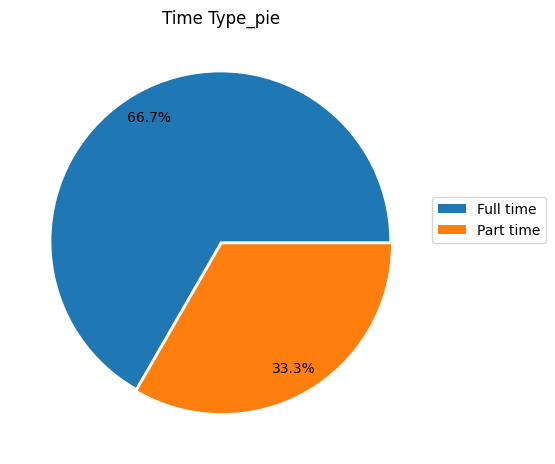
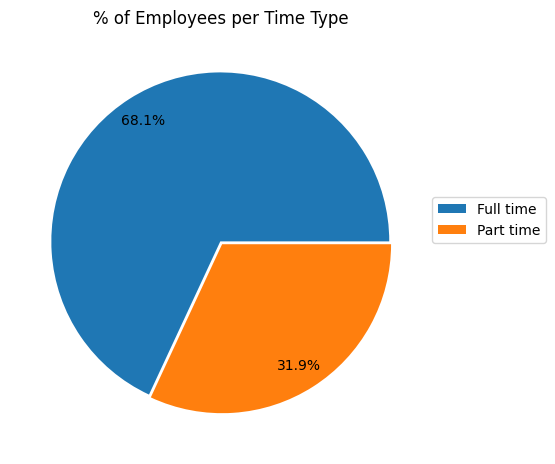
Treemap partial

diff --git a/createGraphs.py b/createGraphs.py
@@ -5,9 +5,6 @@ path = os.path.join(dir,'static', 'datasets', 'current.csv')
 displayedDirPath = os.path.join(dir,'static', 'currentlyDisplayed')
 dfMain = None
 
-def recreateDF():
-    return pd.read_csv(path)
-
 def updateDB():
     return pd.read_csv(path)
 
@@ -51,8 +48,6 @@ def createOther(df, columnName, description = ""):
     
 def singleCategoryGraph(type, columnName, fileName, customTitle, useQuantity):
     df, description = createOther(updateDB(),columnName)
-    dfMain = recreateDF()
-    df, description = createOther(dfMain.copy(),columnName)
     dict = df[columnName].value_counts().to_dict()
     keys = list(dict.keys())
     vals = list(dict.values())
@@ -68,9 +63,19 @@ def singleCategoryGraph(type, columnName, fileName, customTitle, useQuantity):
             plt.subplots_adjust(left=0.0, bottom=0.0, right=1.0)
             genericTitle = "% of Employees per " + columnName
         case "treemap":
+            area = []
+            title = []
             for i, key in enumerate(keys):
-                keys[i] = key + "\n" + "{:1.1f}".format((1-(len(df) - vals[i]) / len(df))*100) + "%"
-            squarify.plot(vals, label=keys)    
+                size = (1-(len(df) - vals[i]) / len(df))*100
+                area.append(int(size))
+                title.append(key)
+                keys[i] = key + "\n" + "{:1.1f}".format(size) + "%"
+            tempDF = pd.DataFrame({"area":area,"keys":keys, "title":title})
+            cmap = tr.get_colormap("Dark2", tempDF["title"])
+            trc = tr.treemap(ax, tempDF, area="area", labels="keys", fill='title', cmap=cmap,
+                             rectprops={'ec':'w', 'lw':2},
+                             textprops={'c':'k' ,'reflow':True, 'place':'top left', 'max_fontsize':20})
+            ax.axis('off')
             plt.axis("off")
             genericTitle = "% of Employees per " + columnName
         case "bar":
@@ -90,8 +95,7 @@ def singleCategoryGraph(type, columnName, fileName, customTitle, useQuantity):
     return description
 
 
-def histogram(columnName, fileName, customTitle, useQuantity):
-    df = updateDB()
+
 def histogram(columnName, fileName, customTitle, useQuantity):
     dfMain = recreateDF()
     df = dfMain.copy()
@@ -119,8 +123,6 @@ def histogram(columnName, fileName, customTitle, useQuantity):
 
 def stackedBarChart(mainColumnName, secondaryColumnName, fileName, customTitle, useQuantity):
     df, description = createOther(updateDB(),mainColumnName)
-    dfMain = recreateDF()
-    df, description = createOther(dfMain.copy(),mainColumnName)
     df, description = createOther(df,secondaryColumnName, description)
     dict = {}
     subDict = {}

diff --git a/appConfig.py b/appConfig.py
@@ -17,6 +17,7 @@ from flask_simple_crypt import SimpleCrypt
 import squarify
 import traceback
 import matplotlib
+import mpl_extra.treemap as tr
 from sqlalchemy import not_
 
 
